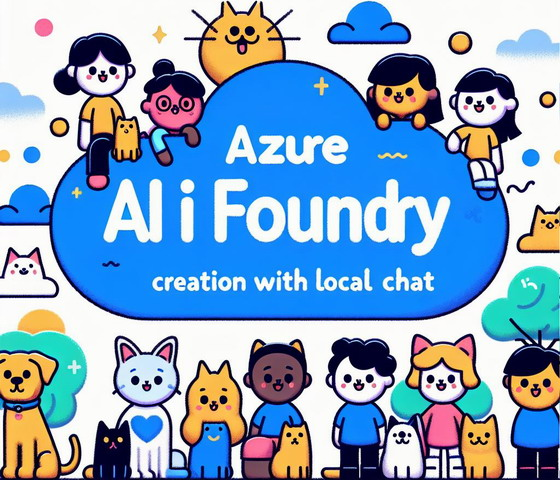
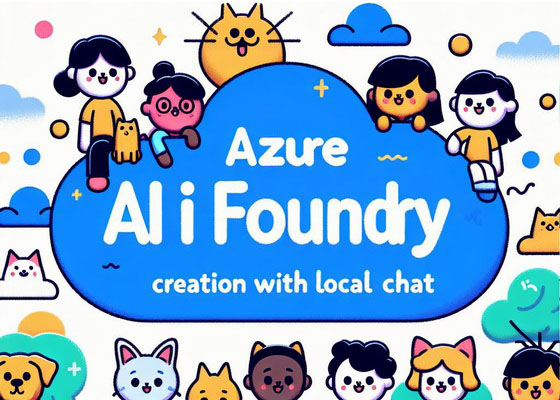
e

diff --git a/index.html b/index.html
@@ -16,12 +16,12 @@
             <h2><i class="fa-brands fa-youtube"></i> Project Videos</h2>
             <div class="project">
                 <h3><i class="fa-brands fa-youtube"></i> Migrate Windows 10 to another SSD</h3>  <!-- Video Icon -->
-                <iframe width="560" height="315" src="https://www.youtube.com/embed/cduQQbM4dsA?si=25S6V3yz3HHYrtvg" frameborder="0" allowfullscreen></iframe>
+                <iframe width="560" height="400" src="https://www.youtube.com/embed/cduQQbM4dsA?si=25S6V3yz3HHYrtvg" frameborder="0" allowfullscreen></iframe>
                 <p>Don't want to lose anything & environment while changing your new disk?</p>
             </div>
             <div class="project">
                 <h3><i class="fas fa-video"></i> Assemble motherboard & all in one water cooler</h3>
-                <iframe width="560" height="315" src="https://www.youtube.com/embed/cb1U1hvRX1I?si=yblHHp8s-ufjwktx" frameborder="0" allowfullscreen></iframe>
+                <iframe width="560" height="400" src="https://www.youtube.com/embed/cb1U1hvRX1I?si=yblHHp8s-ufjwktx" frameborder="0" allowfullscreen></iframe>
                 <p>How to install pc during COVID-19. It's fun to wear a mask. -Year 2020</p>
             </div>
         </div>
@@ -30,25 +30,25 @@
             <h2><i class="fa-solid fa-rectangle-list"></i> Project notes</h2>  <!-- File Icon -->
             <div class="project">
                 <h3><i class="fa-solid fa-list-check fa-fade"></i> <a href="projects/project1/project1.html">Project 1 - CCNA notes</a></h3>   <!-- Code Icon -->
-                <img src="projects/project1/cisco.jpg" alt="Project 1 Preview" width="560" height="560">  <!-- Added image -->
+                <img src="projects/project1/cisco.jpg" alt="Project 1 Preview" width="560" height="400">  <!-- Added image -->
                 <p>It's my CCNA book notes</p>
             </div>
 
             <div class="project">
                 <h3><i class="fa-solid fa-list-check fa-fade"></i><a href="projects/project2/Linux.html"> Prject 2 - Linux study notes </a></h3>   <!-- Code Icon -->
-                <img src="projects/project2/linux.jpg" alt="Project 2 Preview" width="560" height="560">  <!-- Added image -->
+                <img src="projects/project2/linux.jpg" alt="Project 2 Preview" width="560" height="400">  <!-- Added image -->
                 <p>It's my Linux notes</p>
             </div>
 
             <div class="project">
                 <h3><i class="fa-solid fa-list-check fa-fade"></i><a href="projects/project3/java.html">Project 3 - Java study notes</a></h3>   <!-- Code Icon -->
-                <img src="projects/project3/java.jpg" alt="Project 3 Preview" width="560" height="560">  <!-- Added image -->
+                <img src="projects/project3/java.jpg" alt="Project 3 Preview" width="560" height="400">  <!-- Added image -->
                 <p>It's my Java notes</p>
             </div>
 
             <div class="project">
                 <h3><i class="fa-solid fa-list-check"></i><a href="projects/project4/AzureAI.html"> AzureAI with AnythingLLM local implement</a></h3>   <!-- Code Icon -->
-                <img src="projects/project4/AzureAI.jpg" alt="Project 4 Preview" width="560" height="560">  <!-- Added image -->
+                <img src="projects/project4/AzureAI.jpg" alt="Project 4 Preview" width="560" height="400">  <!-- Added image -->
                 <p>AzureAI with AnythingLLM notes</p>
             </div>
         </div>
